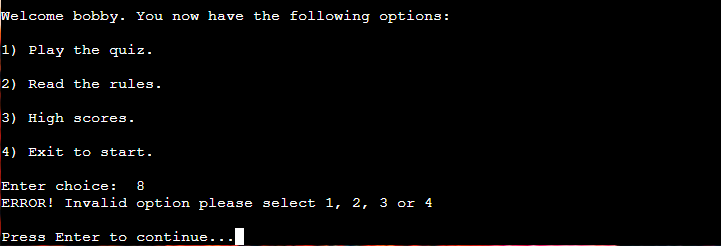
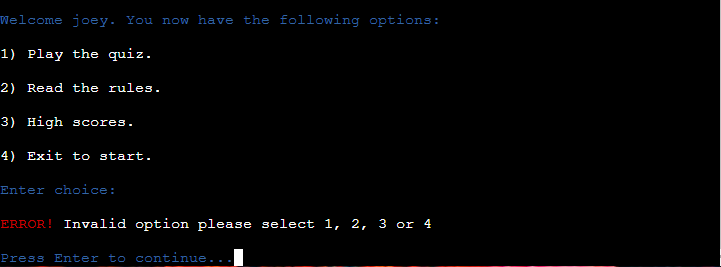
add flowchart update image in readme and more screenshots

diff --git a/run.py b/run.py
@@ -34,14 +34,14 @@ def line_break():
     """
     print("=========================================================")
 
-
+"""
 # Sort sheet A -> Z by column 'B'
 worksheet.sort((2, "des"))
 # This sorts the excell scoreboard sheet and deletes some rows
 clear_range = "A13:A20"
 empty_values = [[""]] * 8  # Create an empty list with 8 rows
 worksheet.update(clear_range, empty_values)
-
+"""
 
 """
 The set of 15 questions that is used during the game. Questions
@@ -50,12 +50,13 @@ imported from questions.py file. Source of questions credited in the
 """
 quiz_data = questions.quiz_data
 
-"""
-The start of the game asking the player to enter their name
-"""
+
 
 
 def game_start():
+    """
+    The start of the game asking the player to enter their name
+    """
     print(f'\033[2J')
     asci_art = artwork.artwork
 
@@ -81,13 +82,11 @@ def game_start():
                     "than 20 characters.\n")
 
 
-"""
-The option screen function is defined below giving the four choices
-for the player after they have entered their player name
-"""
-
-
 def option_screen():
+    """
+    The option screen function is defined below giving the four choices
+    for the player after they have entered their player name
+    """
     global choice
     choice = ""
     while True:
@@ -193,8 +192,9 @@ def gameover_option():
         print(f'\033[2J')
         print("Thank you for playing, enjoy your day further!")
     elif option == "p":
-        final_score = 0
-        run_quiz(quiz_data)
+        global score
+        score = 0  # Reset the score
+        run_quiz(quiz_data)  # Start a new game
 
 
 def run_quiz(quiz_data):
@@ -213,7 +213,7 @@ def run_quiz(quiz_data):
 
             for key, value in guess["answers"].items():
                 print(f"\t{key}: {value}")
-            user_answer = input("Select answer and press enter...\n")
+            user_answer = input(Fore.BLUE + "Select answer and press enter...\033[39m\n")
             user_answer = user_answer.upper()
 
             if user_answer not in ["A", "B", "C", "D"]:

diff --git a/README.md b/README.md
@@ -133,13 +133,18 @@ The user is welcomed to the game and asked to input their name. The game then ch
 
 ![](assets/images/readme_images/screenshot_options.png)
 
-Once the name is correctly entered the player is given four choices.
+Once the name is correctly entered the player is given four choices, as seen above.
 1) Play the game
 2) Read the rules
 3) High scores
 4) Exit to start
 
-### **Quiz**
+![](assets/images/readme_images/screenshot_options_incorrect.png)
+
+If none of the correct options are entered an error is shown, as pictured above.
+
+### **Play the Quiz**
+
 
 
 
@@ -153,6 +158,8 @@ Once the name is correctly entered the player is given four choices.
 
 ![](assets/images/readme_images/screenshot_highscores.png)
 
+The leaderboard is saved in the google excel sheet and is sorted by descending points to show who is on top of the leaderboard.
+This was 
 
 
 ### **Front-end features**
@@ -216,6 +223,8 @@ Problem: When I entered a blank name it would give the error but when I retried 
 
 Ran the code through code institutes Python Linter [pep8 validator](https://pep8ci.herokuapp.com/#)
 
+![](assets/images/readme_images/screenshot_linter.png)
+
 Result: No errors
 
 ---
@@ -235,8 +244,6 @@ Some of the code for the functionality was adapted from here. Namely the quiz da
 [Gsheets](https://www.youtube.com/watch?v=wrR0YLzh4DQ) Help with gsheets and getting data from excel \
 [Emojis](https://www.makeuseof.com/how-to-include-emojis-in-your-python-code) and how to add them\
 [W3Schools](https://www.w3schools.com/) used when I getting stuck with implementation of code
-
-
 
 ###  **Acknowledgments**
 
